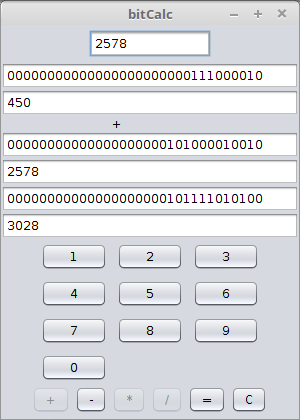
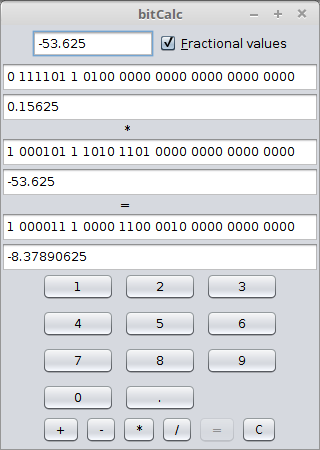
Update bitCalc and resume

diff --git a/home.html b/home.html
@@ -10,7 +10,7 @@
 	<!-- <script src="https://maxcdn.bootstrapcdn.com/bootstrap/3.3.7/js/bootstrap.min.js" integrity="sha384-Tc5IQib027qvyjSMfHjOMaLkfuWVxZxUPnCJA7l2mCWNIpG9mGCD8wGNIcPD7Txa" crossorigin="anonymous"></script> -->
 	<link rel="stylesheet" type="text/css" href="Assets/Styles/css/styles.css">
 </head>
-<body style="background-image: url(Assets/Images/harry.jpg)">
+<body style="background-image: url(Assets/Images/harry.png)">
 	<div id="vertical-wrapper">
 		<div class="vertical-section" style="width: 36%">
 			<div class="section-title" style="z-index: -1; width: 480px">
@@ -21,7 +21,7 @@
 				<h3 class="home-text">Philadelphia, PA</h3>
 				<p class="home-text"><a href="tel:+1-646-250-0946">646-250-0946</a></p>
 				<p class="home-text"><a href="mailto:colin.j.arpe@outlook.com">colin.j.arpe@outlook.com</a></p>
-				<p id="download-button" class="home-text"><a target="_blank" href="Assets/Documents/ArpeC resume Jun2017.pdf">download resum&eacute;</a></p>
+				<p id="download-button" class="home-text"><a target="_blank" href="Assets/Documents/ArpeC-resume-Dec2017.pdf">download resum&eacute;</a></p>
 			</div>
 		</div>
 <!--	<div class="vertical-section" style="width: 48%">
@@ -53,7 +53,7 @@
 				<h4>Web development</h4>
 				<p>HTML, XML, CSS, Sass, JavaScript, Ruby, Rails</p>
 				<h4>Programming</h4>
-				<p>Java, C, C#, x86 Assembler, Apple <a href="#" onclick="window.open('Assets/Documents/a2bfb.html','WozzBuzz','height=300,width=300,top=300,left=600');return false;">][</a> BASIC, Git</p>
+				<p>Java, Python, C, C#, x86 Assembler, Apple <a href="#" onclick="window.open('Assets/Documents/a2bfb.html','WozzBuzz','height=300,width=300,top=300,left=600');return false;">][</a> BASIC, Git</p>
 				<h4>Graphics and DTP</h4>
 				<p>Adobe CS (Photoshop, Illustrator), MS Office (Word, Excel, Powerpoint), Mapinfo</p>
 			</div>
@@ -93,10 +93,10 @@
                 <p>Basic calculator using bit operations</p>
                 <div class="project-description content-subsection">
                     <a target="_blank" href="Java-apps/BitCalc.jar"><img src="Assets/Images/bC-ss.png" width="250px"></a>
-                    <p>bitCalc is a simple calculator application that performs the four basic operations on whole numbers.  The program in coded in Java using the NetBeans IDE.</p>
-                    <p>For each equation, the program creates an object containing the two operands and the result, as well as methods for the four operations.  Within the Equation class, there are no numbers or mathematical operations (exception: there are several <i>for</i> loops which employ an integer index and increment it using the <i>++</i> operation).  Instead, all of the numbers are stored in an array of boolean values representing each number in binary.  The calculations are then performed using the logic gates AND, OR, XOR and NOT.</p>
+                    <p>bitCalc is a simple calculator application that performs the four basic arithmetic operations on whole or floating-point numbers.  The program in coded in Java using the NetBeans IDE.  The floating-point equation class was coded using test-driven development with JUnit4.</p>
+                    <p>For each equation, the program creates an object containing the two operands, the result, and methods for the four operations.  Within the Equation classes (integer and float), there are no number variables or native mathematical operations (exception: array indices and <i>for</i>-loop incrementation).  Instead, each of the numbers is stored in an array of 32 boolean variables representing the value as a 32-bit binary number.  The calculations are then performed using the logic gates AND, OR, XOR and NOT.</p>
                     <p>The .jar file can be downloaded by clicking on the image above; it requires JRE to run.  For help with this, click <b><a href="#" onclick="window.open('Assets/Documents/java-instruc.html','Using the JRE','height=300,width=500,top=300,left=500');return false;">here</a></b>.</p>
-                    <p>The code for the Equation class, which contains the functions for the bit operations, can be viewed <b><a target="_blank" href="https://github.com/colin-j-arpe/bit-op-calculator/blob/master/src/bitcalc/Equation.java">here</a></b>.</p>
+                    <p>The code for the Equation class, which contains the functions for the integer bit operations, can be viewed <b><a target="_blank" href="https://github.com/colin-j-arpe/bit-op-calculator/blob/master/src/bitcalc/Equation.java">here</a></b>.  The JUnit tests used in developing the FloatEquation class can be viewed <b><a target="_blank" href="https://github.com/colin-j-arpe/bit-op-calculator/blob/master/test/bitcalc/FloatEquationTest.java">here</a></b>.</p>
                 </div>
                 <h3 class="content-header">lightsOut!</h3>
                 <p>Simple and maddening puzzle game</p>
